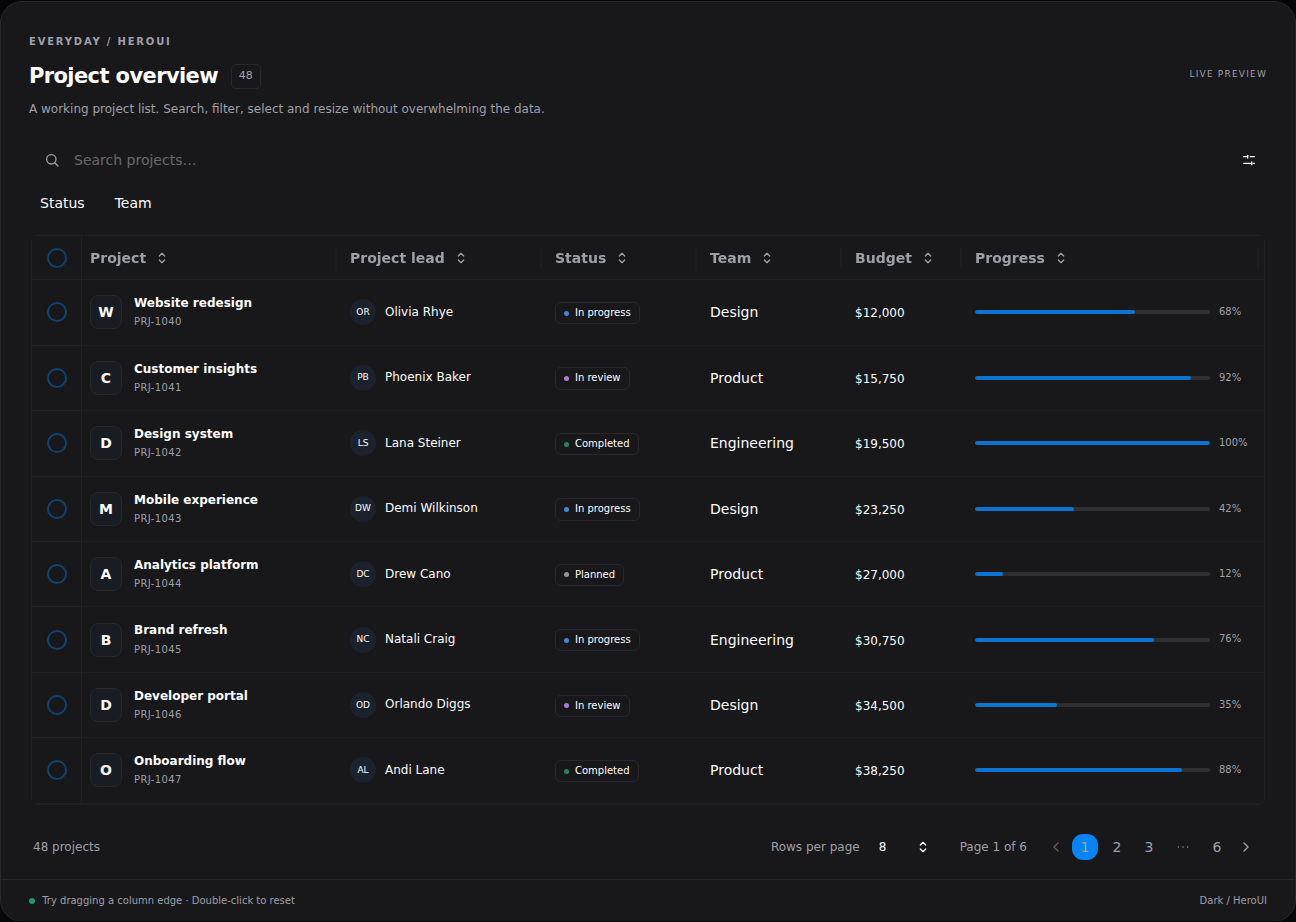
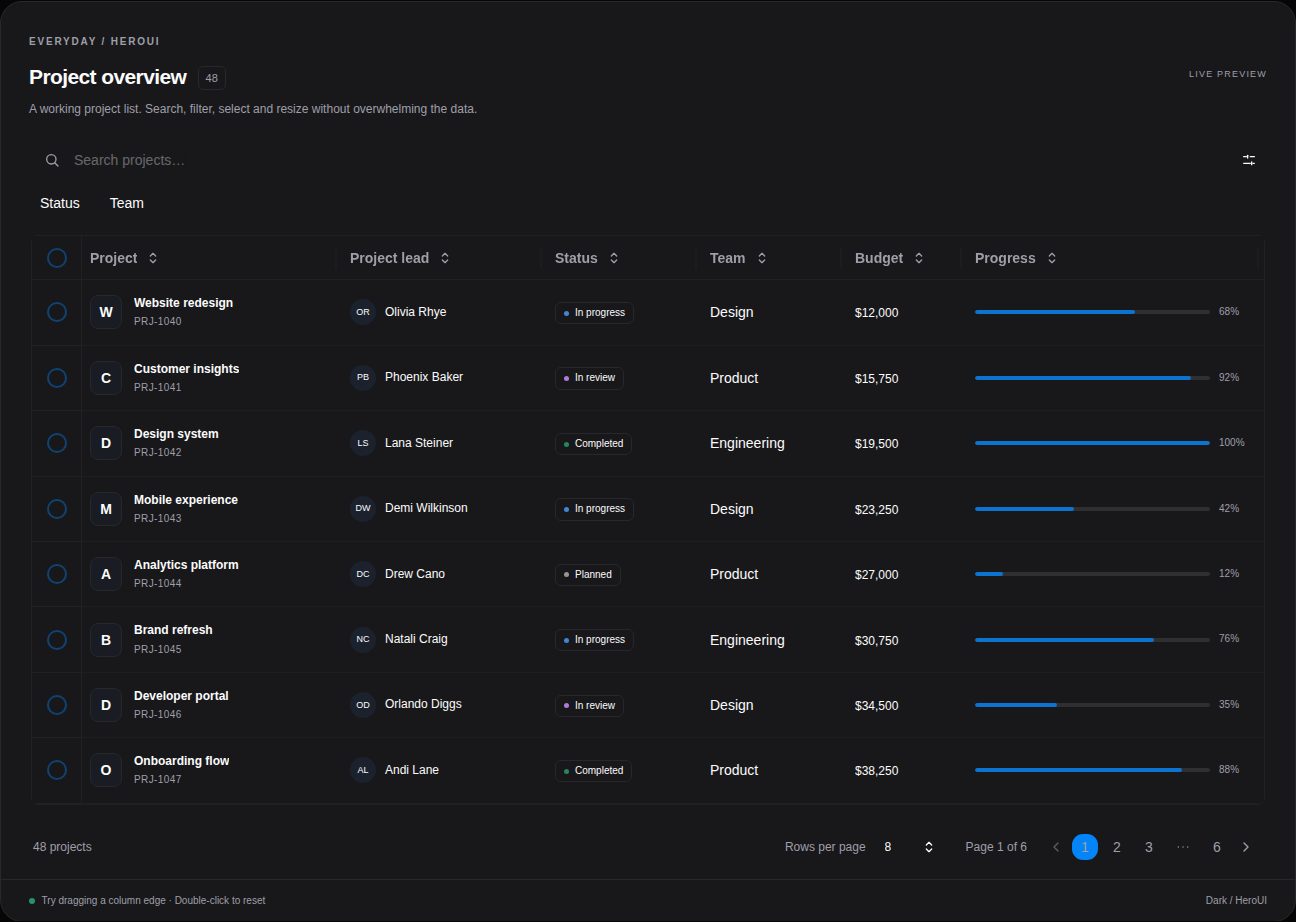
test: align release screenshots with CI fonts

diff --git a/demo/src/styles.css b/demo/src/styles.css
@@ -320,7 +320,7 @@ select {
   border-radius: var(--radius);
   background:
     linear-gradient(180deg, rgba(0, 229, 255, 0.075), transparent 62%),
-    rgba(1, 8, 11, 0.88);
+    var(--card);
   box-shadow:
     inset 0 1px 0 rgba(122, 255, 255, 0.08),
     0 0 0 1px rgba(0, 229, 255, 0.1),
@@ -334,7 +334,7 @@ select {
 [data-demo-adapter="thegridcn"] .demo-filter-row {
   border-color: color-mix(in oklch, var(--accent) 44%, transparent);
   border-radius: var(--radius);
-  background: rgba(0, 8, 11, 0.78);
+  background: var(--card);
   color: var(--foreground);
   box-shadow: 0 0 18px rgba(0, 229, 255, 0.06);
 }
@@ -352,7 +352,7 @@ select {
 
 [data-demo-adapter="thegridcn"] .demo-native-button:hover,
 [data-demo-adapter="thegridcn"] .demo-native-toggle:hover {
-  background: rgba(0, 229, 255, 0.12);
+  background: color-mix(in oklch, var(--primary) 12%, var(--card));
 }
 
 [data-demo-adapter="thegridcn"] .demo-native-control:focus {

diff --git a/docs/UI-design.md b/docs/UI-design.md
@@ -87,7 +87,10 @@ node scripts/render-gallery.mjs
 ```
 
 Set `PLAYWRIGHT_BASE_URL` to use another port. Install Playwright Chromium and
-its system dependencies if needed. Output is 18 desktop PNGs (three presets ×
+its system dependencies if needed (`corepack pnpm exec playwright install --with-deps chromium`).
+Linux screenshot baselines use Liberation Sans/Mono from the `fonts-liberation`
+package; missing fonts change text metrics even when the tests otherwise pass.
+Output is 18 desktop PNGs (three presets ×
 three adapters × two themes), three mobile PNGs, and an HTML contact sheet in
 `docs/ui-renders/`. Advanced captures show a selected row and expanded details.
 
